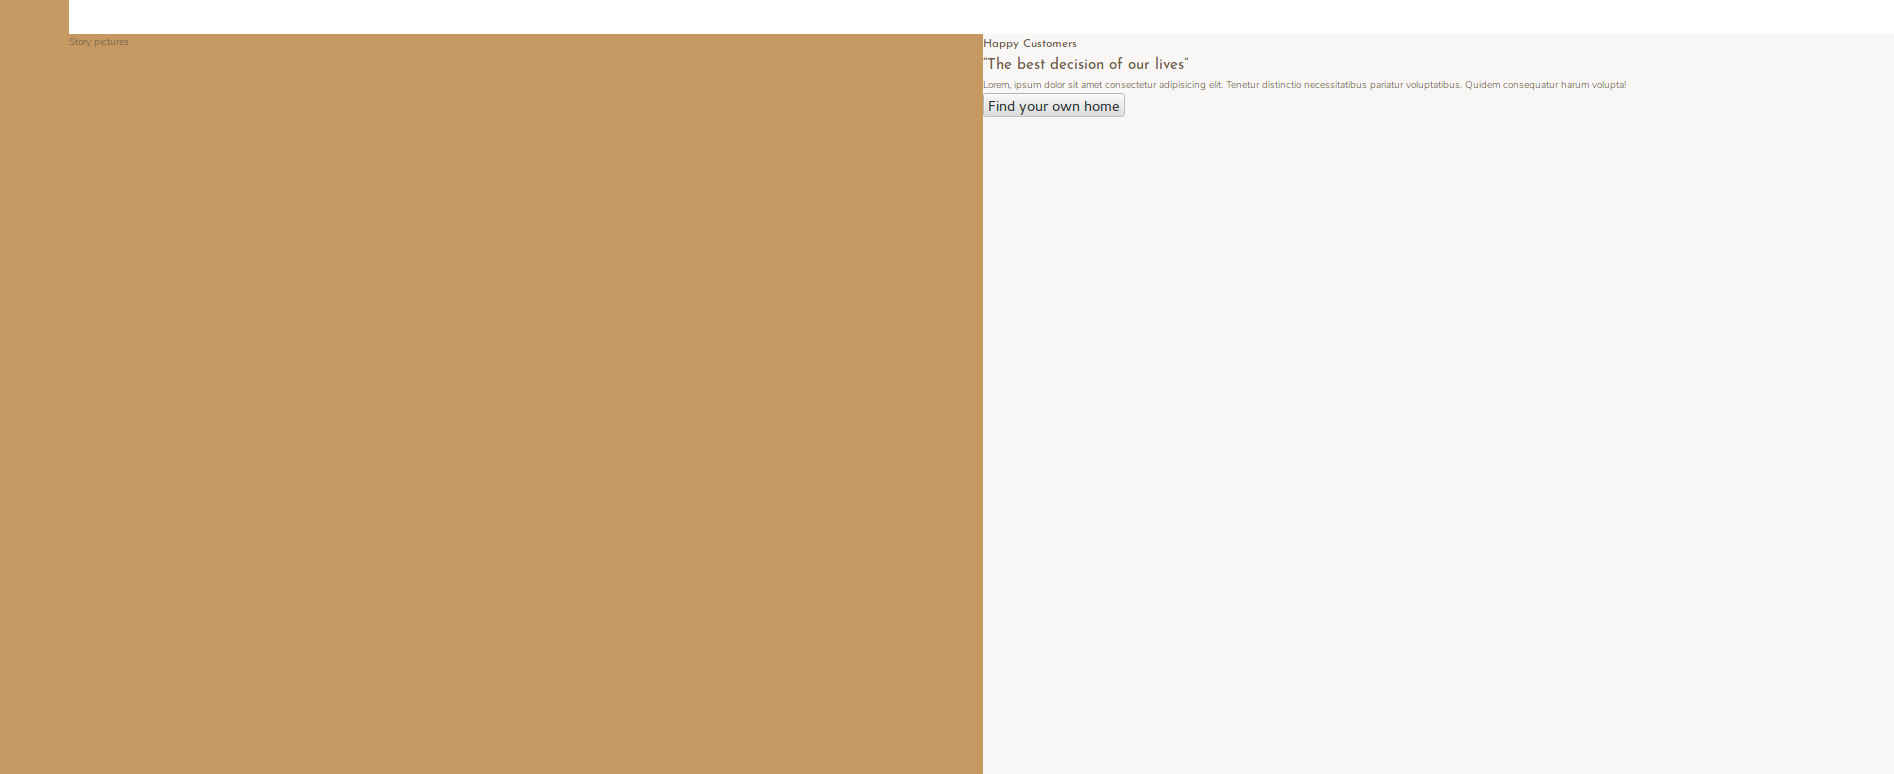
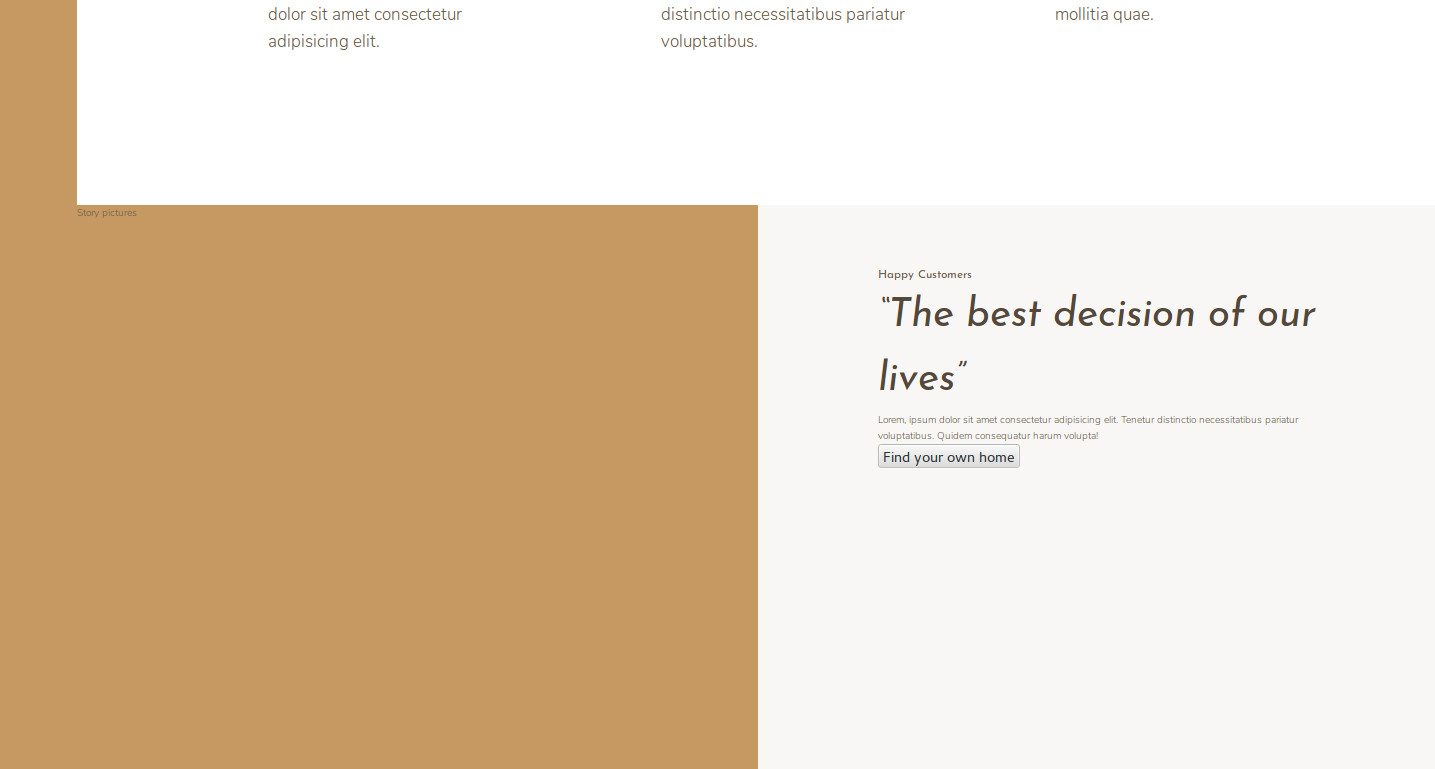
Fix the much to large space between the lines of the heading-2 headings problem

diff --git a/sass/_typography.scss b/sass/_typography.scss
@@ -11,6 +11,7 @@
   @extend %heading;
   font-size: 4rem;
   font-style: italic;
+  line-height: 1;
   
   &--light {
     color: $color-grey-light-1;
@@ -23,6 +24,9 @@
 
 .heading-3 {
   @extend %heading;
+  font-size: 1.6rem;
+  color: $color-primary;
+  text-transform: uppercase;
 }
 
 .heading-4 {
